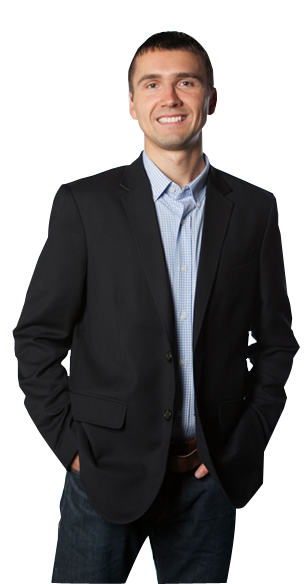
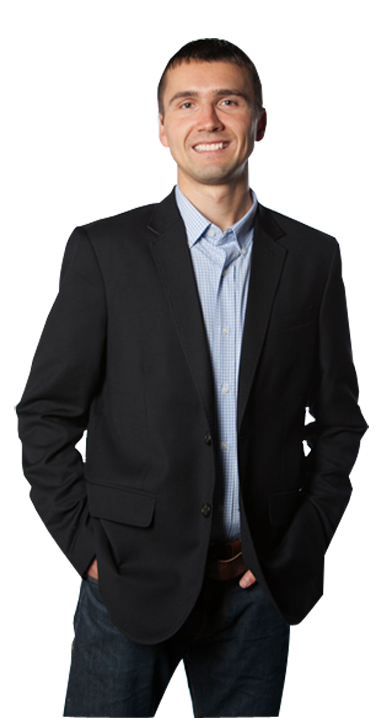
live theme changes

diff --git a/wp-content/themes/SD-Child-Theme/style.css b/wp-content/themes/SD-Child-Theme/style.css
@@ -6,13 +6,26 @@ Template: SD
 */
 
 .header-social .google-phone {
-    font-family: Lato, helvetica neue, helvetica;
+    font-family: 'Lato', 'helvetica neue', 'helvetica', sans-serif;
     font-size:19px;
     color:#009fe3;
 }
 
 #mobile-nav.mobile-sticky-nav {
 height: 330px !important;
+}
+
+
+/**
+ * Contact page image
+ * 
+ */
+
+.sayenko-contact {
+
+position:relative; 
+bottom: 0px;
+
 }
 
 
@@ -182,9 +195,24 @@ height: 330px !important;
     padding-bottom: 0 !important;
     padding-left: 0 !important;
     padding-right: 0 !important;
+
+    font-size: 18px;
+    line-height: 32px;
 }
 
 /* ---- GRAVITY FORM -----*/
+
+
+.gform_wrapper ul li.gfield {
+    clear: none !important;
+}
+
+.gform_wrapper input:not([type=radio]):not([type=checkbox]):not([type=submit]):not([type=button]):not([type=image]):not([type=file]) {
+    font-size: inherit;
+    font-family: inherit;
+    padding: 7px 4px !important;
+    letter-spacing: normal;
+}
 
 
 .gform_wrapper .top_label li.gfield.gf_right_half {
@@ -194,6 +222,7 @@ height: 330px !important;
     margin-top: 0;
     width: 49%;
 }
+
 
 .gravity-select-parent {
     height: 33px !important;
@@ -513,9 +542,19 @@ a.button-2:hover {
 }
 
 
-/* /case-studies/nwcg */
+/* Case Studies - /nwcg /wa-rock & service pages  /web-development */
 
 .page-id-7410 #main { padding-top: 0; }
+.page-id-7420 #main { padding-top: 0; }
+.page-id-7486 #main { padding-top: 0; }  /* /custom-web-design/ */
+.page-id-7492 #main { padding-top: 0 !important; }  /* /web-development */
+.page-id-7520 #main { padding-top: 0 !important; }  /* /web-strategy */
+.page-id-7535 #main { padding-top: 0 !important; }  /* /secure-maintenance/  */
+
+.page-id-7537 #main { padding-top: 0 !important; }  /* /search-engine-marketing/ */
+.page-id-7574 #main { padding-top: 0 !important; }  /* /business-branding/  */
+
+
 
 
 /* /case-studies/intellectual-ventures */
@@ -544,6 +583,13 @@ a.button-2:hover {
     bottom: 219px;
 }
 
+#animted-icons1 .fusion-column:nth-child(4) .fusion-animated .heading-link.active img {
+    bottom: 214px;
+    left: 3px;
+
+}
+
+
 #animted-icons2 .fusion-column:nth-child(1) .fusion-animated .heading-link.active img {
     bottom: 219px;
 }
@@ -555,9 +601,21 @@ a.button-2:hover {
     bottom: 219px;
 }
 
+
+
 /* contact page */
-.page-id-86 #main > .avada-row {
-    background-image: url("mike-wayenko-seattle-web-design.png");
-    background-repeat: no-repeat;
-    background-position: bottom left;
+@media only screen and (min-width: 801px) {
+    .mike-background > .avada-row {
+        background-image: url("mike-sayenko-seattle-web-design.png");
+        background-repeat: no-repeat;
+        background-position: 0 -15px;
+    }
 }
+
+@media only screen and (max-width: 801px) { 
+	.mobile-blank {
+		display:none;
+
+   }
+}
+
